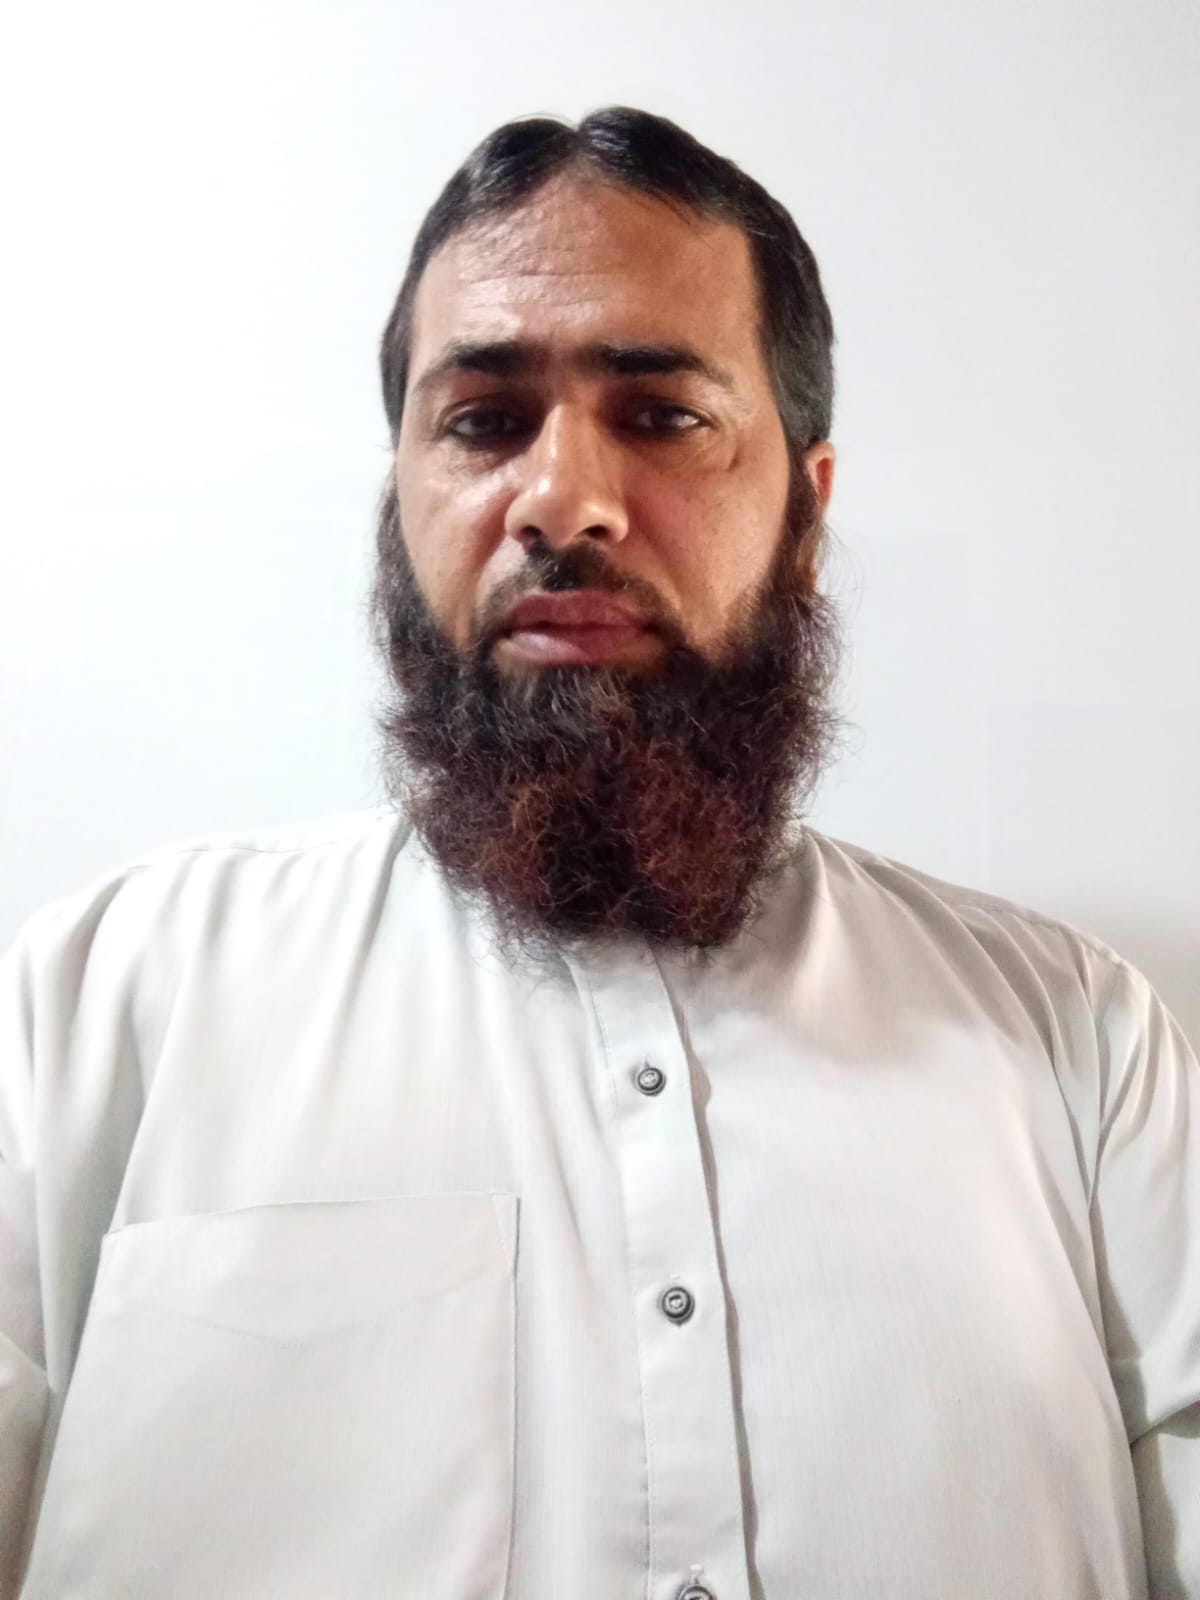
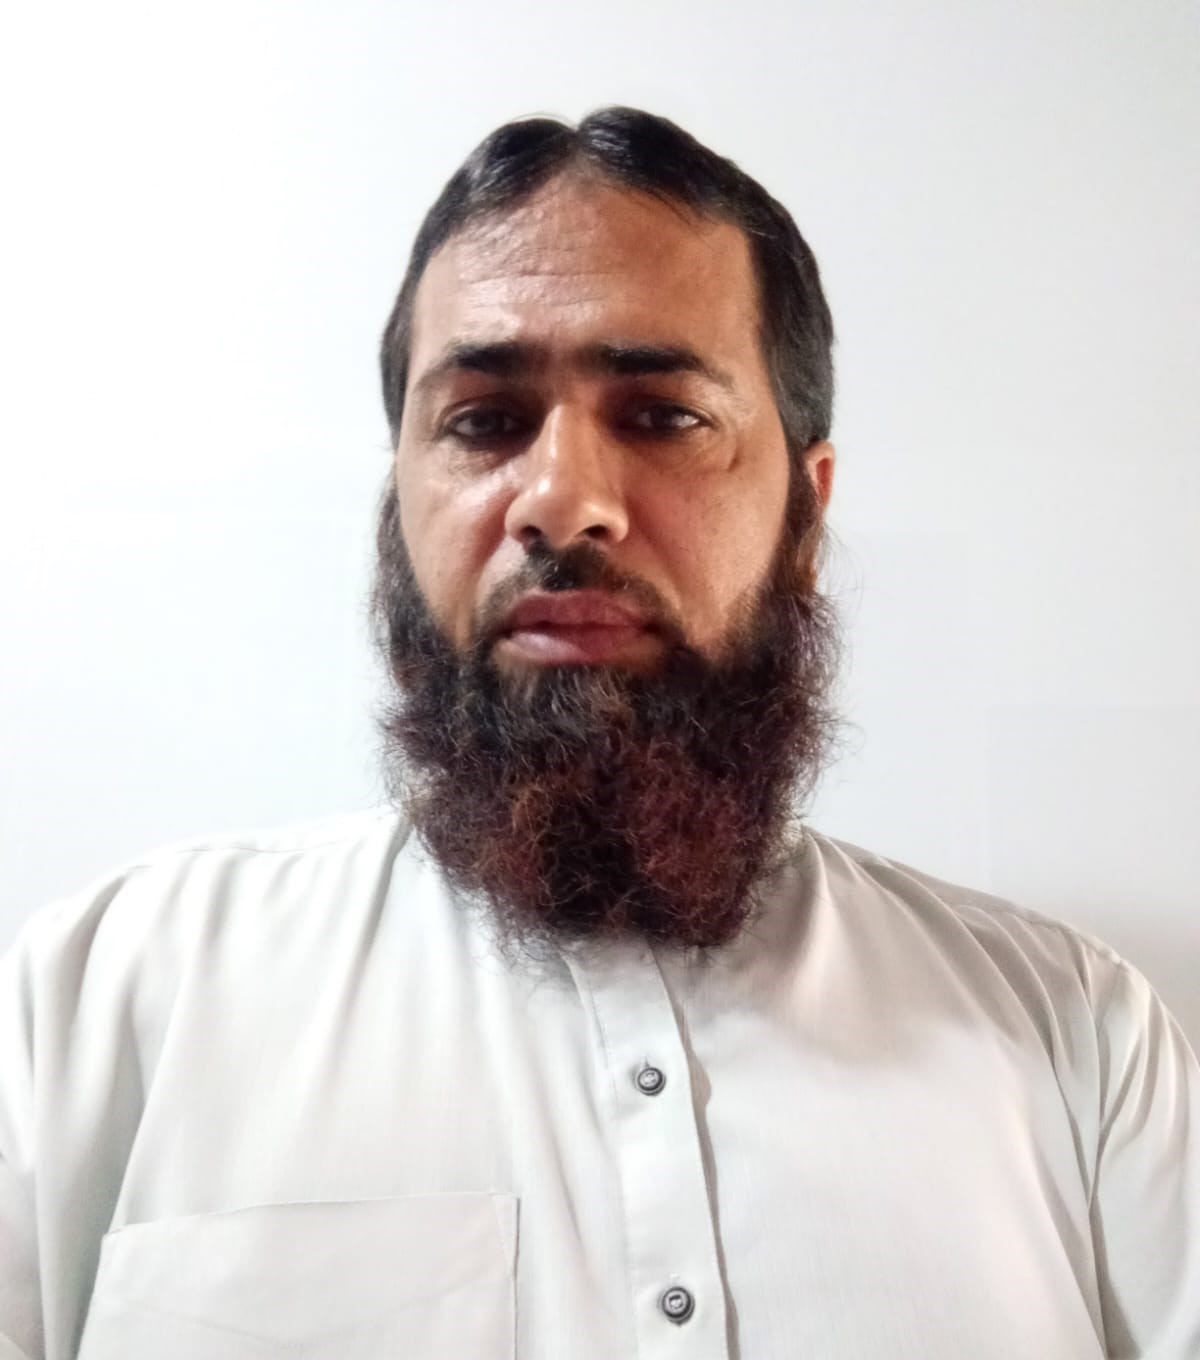
update

diff --git a/index.html b/index.html
@@ -3,6 +3,7 @@
 
 <head>
     <meta charset="UTF-8">
+    <link rel="icon" type="image/png" href="download.png" />
     <meta name="viewport" content="width=device-width, initial-scale=1.0">
     <title>ٹھیکیدار ڈیجیٹل</title>
     <link rel="preconnect" href="https://fonts.googleapis.com">
@@ -15,7 +16,7 @@
 
     <div id="loginPage">
         <div class="login-card">
-            <!-- < img src="Asif.JPEG" alt="Profile" class="profile-img"> -->
+            <img src="Asif.JPEG" alt="Profile" class="profile-img">
             <h2 style="color: var(--primary); margin-top: 0;">ٹھیکیدار ڈیجیٹل 🏗️</h2>
             <input type="password" id="passCode" placeholder="او ٹی پی درج کریں"
                 style="width:80%; margin-bottom: 10px; text-align: center; padding: 10px;"